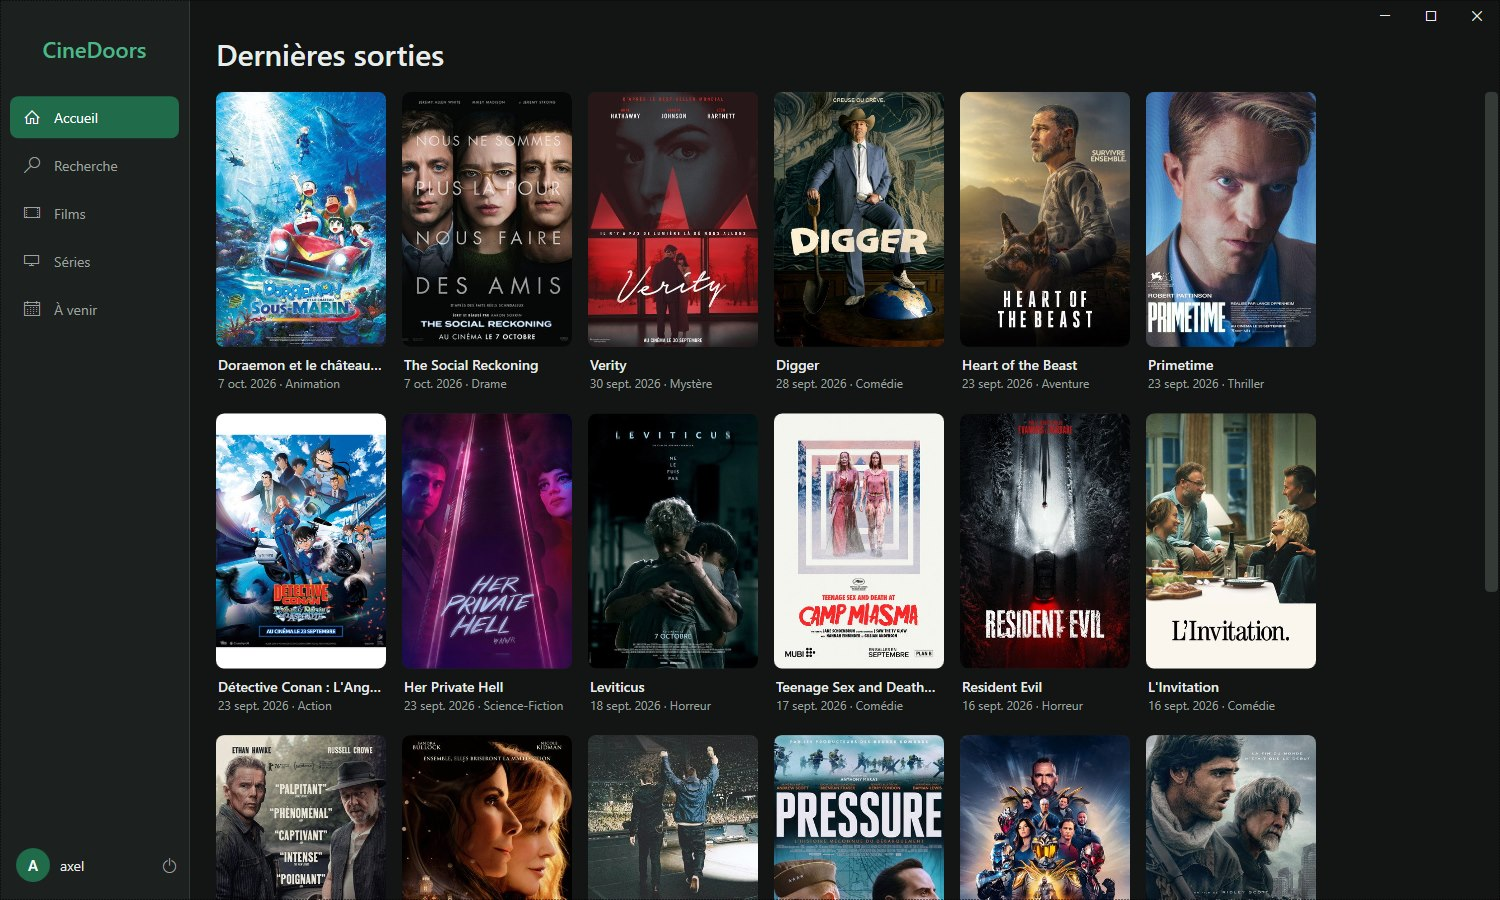
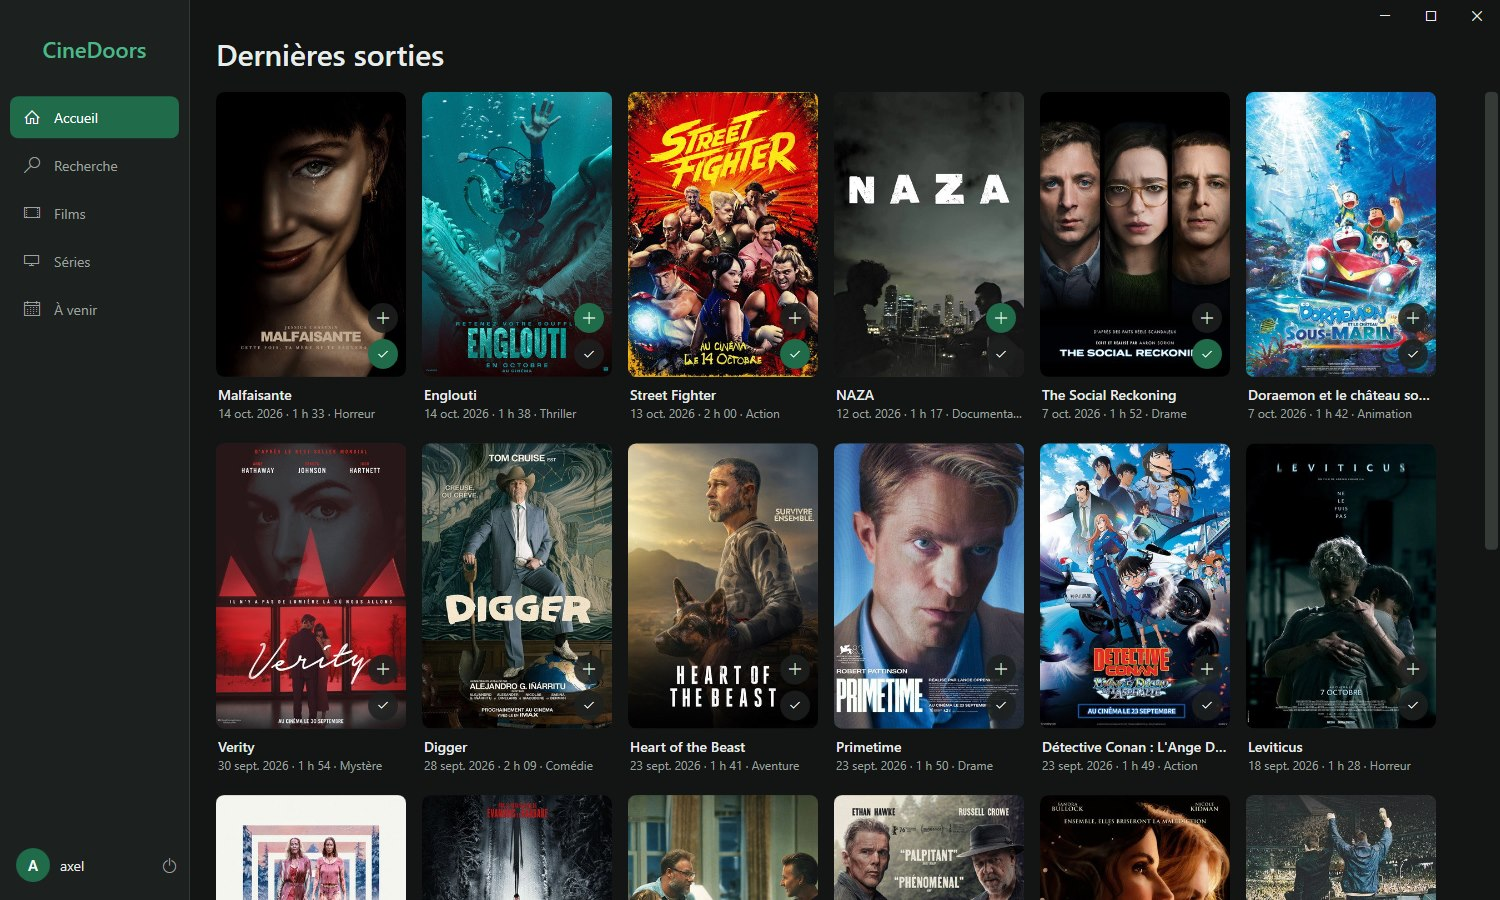
Durée sur les cartes, curseur visible dans les champs vides, README à jour

diff --git a/src/CineDoors.App/App.xaml b/src/CineDoors.App/App.xaml
@@ -43,6 +43,8 @@
 
         <!-- Zone de texte sans bordure, posée dans le cadre arrondi -->
         <Style x:Key="InputText" TargetType="TextBox">
+            <!-- Marge intérieure : sans elle, le curseur de saisie placé tout au début du champ est rogné et reste invisible -->
+            <Setter Property="Padding" Value="3,0" />
             <Setter Property="Background" Value="Transparent" />
             <Setter Property="BorderThickness" Value="0" />
             <Setter Property="Foreground" Value="{StaticResource TextBrush}" />
@@ -52,6 +54,8 @@
         </Style>
 
         <Style x:Key="InputPassword" TargetType="PasswordBox">
+            <!-- Marge intérieure : sans elle, le curseur de saisie placé tout au début du champ est rogné et reste invisible -->
+            <Setter Property="Padding" Value="3,0" />
             <Setter Property="Background" Value="Transparent" />
             <Setter Property="BorderThickness" Value="0" />
             <Setter Property="Foreground" Value="{StaticResource TextBrush}" />
@@ -217,7 +221,7 @@
             <Setter Property="FontSize" Value="14" />
             <Setter Property="Opacity" Value="0.7" />
             <Setter Property="VerticalAlignment" Value="Center" />
-            <Setter Property="Margin" Value="2,0,0,0" />
+            <Setter Property="Margin" Value="6,0,0,0" />
             <!-- Le texte laisse passer les clics : on clique "à travers" pour atteindre le champ -->
             <Setter Property="IsHitTestVisible" Value="False" />
         </Style>

diff --git a/src/CineDoors.App/Views/HomeView.xaml b/src/CineDoors.App/Views/HomeView.xaml
@@ -29,10 +29,10 @@
                 <!-- Modèle d'une carte. {Binding X} affiche la propriété X de l'objet MovieCard. -->
                 <ItemsControl.ItemTemplate>
                     <DataTemplate>
-                        <StackPanel Width="170" Margin="0,0,16,22">
+                        <StackPanel Width="190" Margin="0,0,16,22">
 
                             <!-- Affiche et boutons superposés dans une même case -->
-                            <Grid Width="170" Height="255">
+                            <Grid Width="190" Height="285">
 
                                 <!-- Affiche au format 2:3. Le fond gris se voit tant que l'image charge, ou s'il n'y en a pas. -->
                                 <Border CornerRadius="8" Background="{StaticResource InputBrush}">
@@ -76,7 +76,7 @@
 
                             <TextBlock Text="{Binding Title}" FontSize="14" FontWeight="SemiBold" Margin="2,8,0,0"
                                        TextTrimming="CharacterEllipsis" ToolTip="{Binding Title}" />
-                            <TextBlock Text="{Binding Subtitle}" FontSize="12" Foreground="{StaticResource MutedTextBrush}" Margin="2,2,0,0"
+                            <TextBlock Text="{Binding Subtitle}" ToolTip="{Binding Subtitle}" FontSize="12" Foreground="{StaticResource MutedTextBrush}" Margin="2,2,0,0"
                                        TextTrimming="CharacterEllipsis" />
                         </StackPanel>
                     </DataTemplate>

diff --git a/src/CineDoors.App/Views/HomeView.xaml.cs b/src/CineDoors.App/Views/HomeView.xaml.cs
@@ -67,10 +67,36 @@ public partial class HomeView : UserControl
             // On donne la liste à la grille : WPF crée une carte à l'écran pour chaque élément.
             MoviesList.ItemsSource = cards;
             StatusText.Visibility = Visibility.Collapsed;
+
+            // La grille est affichée : on complète ensuite les cartes avec la durée de chaque film
+            await LoadRuntimesAsync(cards);
         }
         catch (Exception)
         {
             StatusText.Text = "Impossible de charger les films. Vérifiez la connexion Internet et le jeton TMDB (variable CINEDOORS_TMDB_TOKEN).";
+        }
+    }
+
+    // Demande à TMDB la durée de chaque film, l'un après l'autre, et met à jour sa carte.
+    // TMDB ne donne pas la durée dans la liste des sorties : il faut une demande par film.
+    private async Task LoadRuntimesAsync(List<MovieCard> cards)
+    {
+        try
+        {
+            foreach (MovieCard card in cards)
+            {
+                if (card.Movie.RuntimeMinutes == null)
+                {
+                    card.Movie.RuntimeMinutes = await _tmdbClient.GetRuntimeAsync(card.Movie.TmdbId);
+                }
+
+                // Changer Subtitle suffit : la carte prévient l'écran, qui réaffiche la ligne
+                card.Subtitle = BuildSubtitle(card.Movie);
+            }
+        }
+        catch (Exception)
+        {
+            // La durée est un plus : si TMDB ne répond pas, les cartes restent affichées sans elle
         }
     }
 
@@ -153,6 +179,14 @@ public partial class HomeView : UserControl
             // "d MMM yyyy" : jour, mois abrégé, année. Préciser "fr-FR" donne le mois en format français.
             // ".Value" lit la date contenue dans le DateOnly? (on vient de vérifier qu'elle n'est pas null).
             parts.Add(movie.ReleaseDate.Value.ToString("d MMM yyyy", new CultureInfo("fr-FR")));
+        }
+
+        if (movie.RuntimeMinutes != null)
+        {
+            // 112 minutes -> "1 h 52". "D2" écrit le nombre sur 2 chiffres : 5 devient "05".
+            int hours = movie.RuntimeMinutes.Value / 60;
+            int minutes = movie.RuntimeMinutes.Value % 60;
+            parts.Add(hours + " h " + minutes.ToString("D2"));
         }
 
         if (movie.Genres != null)

diff --git a/src/CineDoors.Infrastructure/Tmdb/TmdbClient.cs b/src/CineDoors.Infrastructure/Tmdb/TmdbClient.cs
@@ -21,6 +21,9 @@ public class TmdbClient
     // Noms des genres par identifiant (28 -> "Action"). Chargé une seule fois, au premier besoin.
     private Dictionary<int, string>? _genreNames;
 
+    // Durées déjà demandées à TMDB (id du film -> durée). Evite de redemander la même à chaque retour sur l'accueil.
+    private readonly Dictionary<int, int?> _runtimes = new Dictionary<int, int?>();
+
     // HttpClient est fourni déjà configuré (adresse de l'API, jeton d'accès) par App.xaml.cs.
     public TmdbClient(HttpClient http)
     {
@@ -47,15 +50,25 @@ public class TmdbClient
     // Récupération de la durée d'un film en minutes. TMDB ne la donne pas donc on la calcule via la fiche du film. Renvoie null si la durée n'est pas connue.
     public async Task<int?> GetRuntimeAsync(int tmdbId)
     {
+        // Déjà demandée : on renvoie la valeur gardée en mémoire, sans appel réseau
+        if (_runtimes.TryGetValue(tmdbId, out int? knownRuntime))
+        {
+            return knownRuntime;
+        }
+
         string json = await _http.GetStringAsync("movie/" + tmdbId + "?language=fr-FR");
         TmdbMovieDetailsResponse? response = JsonSerializer.Deserialize<TmdbMovieDetailsResponse>(json, _jsonOptions);
 
         // TMDB Renvoie 0 si durée inconnue, donc forcer le null
-        if (response ==null || response.Runtime == 0)
+        int? runtime = null;
+
+        if (response != null && response.Runtime != 0)
         {
-            return null;
+            runtime = response.Runtime;
         }
-        return response.Runtime;
+
+        _runtimes[tmdbId] = runtime;
+        return runtime;
     }
 
 

diff --git a/src/CineDoors.Infrastructure/Services/MovieService.cs b/src/CineDoors.Infrastructure/Services/MovieService.cs
@@ -98,7 +98,7 @@ public class MovieService
         stats.WatchedCount = await watched.CountAsync();
         stats.ToWatchCount = await trackings.CountAsync(t => t.Status == MovieStatus.ToWatch); // Equivaut à un count(*)
         stats.TotalMinutes = await watched.SumAsync(t => t.Movie!.RuntimeMinutes ?? 0); // "?? 0" précise que, si la durée est nulle, on la remplace par 0
-        stats.UnknowRuntimeCount = await watched.CountAsync(t => t.Movie!.RuntimeMinutes == null); // On compte, parmi les films vus, ceux dont on ne connait pas la durée
+        stats.UnknownRuntimeCount = await watched.CountAsync(t => t.Movie!.RuntimeMinutes == null); // On compte, parmi les films vus, ceux dont on ne connait pas la durée
 
         return stats;
     }

diff --git a/src/CineDoors.App/Views/MovieCard.cs b/src/CineDoors.App/Views/MovieCard.cs
@@ -11,7 +11,17 @@ public class MovieCard : INotifyPropertyChanged // Déclaration WPF permettant d
     public required string Title { get; set; }
 
     // Ligne sous le titre, ex. "30 sept. 2026 · Science-Fiction"
-    public required string Subtitle { get; set; }
+    // Elle change après l'affichage (la durée arrive ensuite) : comme pour IsToWatch, le "set" prévient l'écran.
+    private string _subtitle = "";
+    public required string Subtitle
+    {
+        get { return _subtitle; }
+        set
+        {
+            _subtitle = value;
+            OnPropertyChanged(nameof(Subtitle));
+        }
+    }
 
     // Adresse complète de l'affiche. null si le film n'en a pas.
     public string? PosterUrl { get; set; }

diff --git a/src/CineDoors.App/Views/ProfileView.xaml.cs b/src/CineDoors.App/Views/ProfileView.xaml.cs
@@ -42,9 +42,9 @@ public partial class ProfileView : UserControl
             WatchedCountText.Text = stats.WatchedCount.ToString();
             ToWatchCountText.Text = stats.ToWatchCount.ToString();
 
-            if (stats.UnknowRuntimeCount >0)
+            if (stats.UnknownRuntimeCount >0)
             {
-                UnknownRuntimeText.Text = "Durée inconnue pour " + stats.UnknowRuntimeCount + " film(s) vu(s) : non compté(s) dans le temps de visionnage.";
+                UnknownRuntimeText.Text = "Durée inconnue pour " + stats.UnknownRuntimeCount + " film(s) vu(s) : non compté(s) dans le temps de visionnage.";
                 UnknownRuntimeText.Visibility = Visibility.Visible;
             }
 

diff --git a/tests/CineDoors.Tests/MovieServiceTests.cs b/tests/CineDoors.Tests/MovieServiceTests.cs
@@ -81,7 +81,7 @@ public class MovieServiceTests
         Assert.Equal(1, stats.ToWatchCount);
         // Seul le film vu avec une durée compte : le film "à voir" et celui sans durée n'ajoutent rien
         Assert.Equal(100, stats.TotalMinutes);
-        Assert.Equal(1, stats.UnknowRuntimeCount);
+        Assert.Equal(1, stats.UnknownRuntimeCount);
 
         // --- Nettoyage (supprimer l'utilisateur supprime aussi ses suivis) ---
         context.Users.Remove(user);

diff --git a/src/CineDoors.Core/MovieStats.cs b/src/CineDoors.Core/MovieStats.cs
@@ -13,5 +13,5 @@ public class MovieStats
     public int TotalMinutes { get; set; }
 
     // Films vus dont la durée est inconnue (ne comptent pas dans le total)
-    public int UnknowRuntimeCount { get; set; }
+    public int UnknownRuntimeCount { get; set; }
 }

diff --git a/README.md b/README.md
@@ -16,18 +16,22 @@ Projet personnel réalisé pour apprendre le C#, l'écosystème .NET et Visual S
 
 ![Accueil : les dernières sorties de films](screenshots/accueil.jpg)
 
+![Profil : les compteurs de visionnage](screenshots/profil.jpg)
+
 ## Fonctionnalités
 
 Disponibles :
 
 - Création de compte et connexion, avec mots de passe hachés (PBKDF2, sel par compte).
 - Accueil avec les dernières sorties de films, chargées depuis l'API TMDB.
+- Suivi des films depuis l'accueil : ajout à la liste « à voir » ou marquage « vu » en un clic, propre à chaque compte.
+- Profil avec le temps de visionnage, le nombre de films vus et le nombre de films à voir, calculés par PostgreSQL.
 - Interface sombre qui s'adapte à la taille de la fenêtre, barre de titre intégrée.
-- Navigation entre les écrans.
+- Tests automatisés et intégration continue (GitHub Actions) à chaque envoi.
 
 En cours de développement :
 
-- Listes de films « à voir » et « vus », compteurs de temps de visionnage.
+- Écran des listes de films « à voir » et « vus ».
 - Recherche dans le catalogue.
 - Séries : suivi par épisode, par saison ou en entier.
 - Sorties à venir et notifications.
@@ -42,7 +46,7 @@ En cours de développement :
 | Base de données | PostgreSQL 17, dans Docker |
 | Accès aux données | EF Core (ORM) avec le pilote Npgsql pour PostgreSQL, migrations versionnées |
 | Catalogue | API REST de TMDB |
-| Tests | xUnit |
+| Tests | xUnit, exécutés par GitHub Actions |
 
 ## Organisation du code
 
@@ -50,8 +54,8 @@ La solution est découpée en quatre projets, pour séparer les règles métier,
 
 | Projet | Rôle |
 |---|---|
-| `CineDoors.Core` | Entités métier. Ne dépend d'aucun autre projet. |
-| `CineDoors.Infrastructure` | Accès à PostgreSQL (EF Core), client TMDB, hachage des mots de passe, service de compte. |
+| `CineDoors.Core` | Entités et règles métier. Ne dépend d'aucun autre projet. |
+| `CineDoors.Infrastructure` | Accès à PostgreSQL (EF Core), client TMDB, hachage des mots de passe, services de compte et de suivi des films. |
 | `CineDoors.App` | Application WPF : fenêtre, écrans, thème. |
 | `CineDoors.Tests` | Tests unitaires et tests d'intégration sur PostgreSQL. |
 
